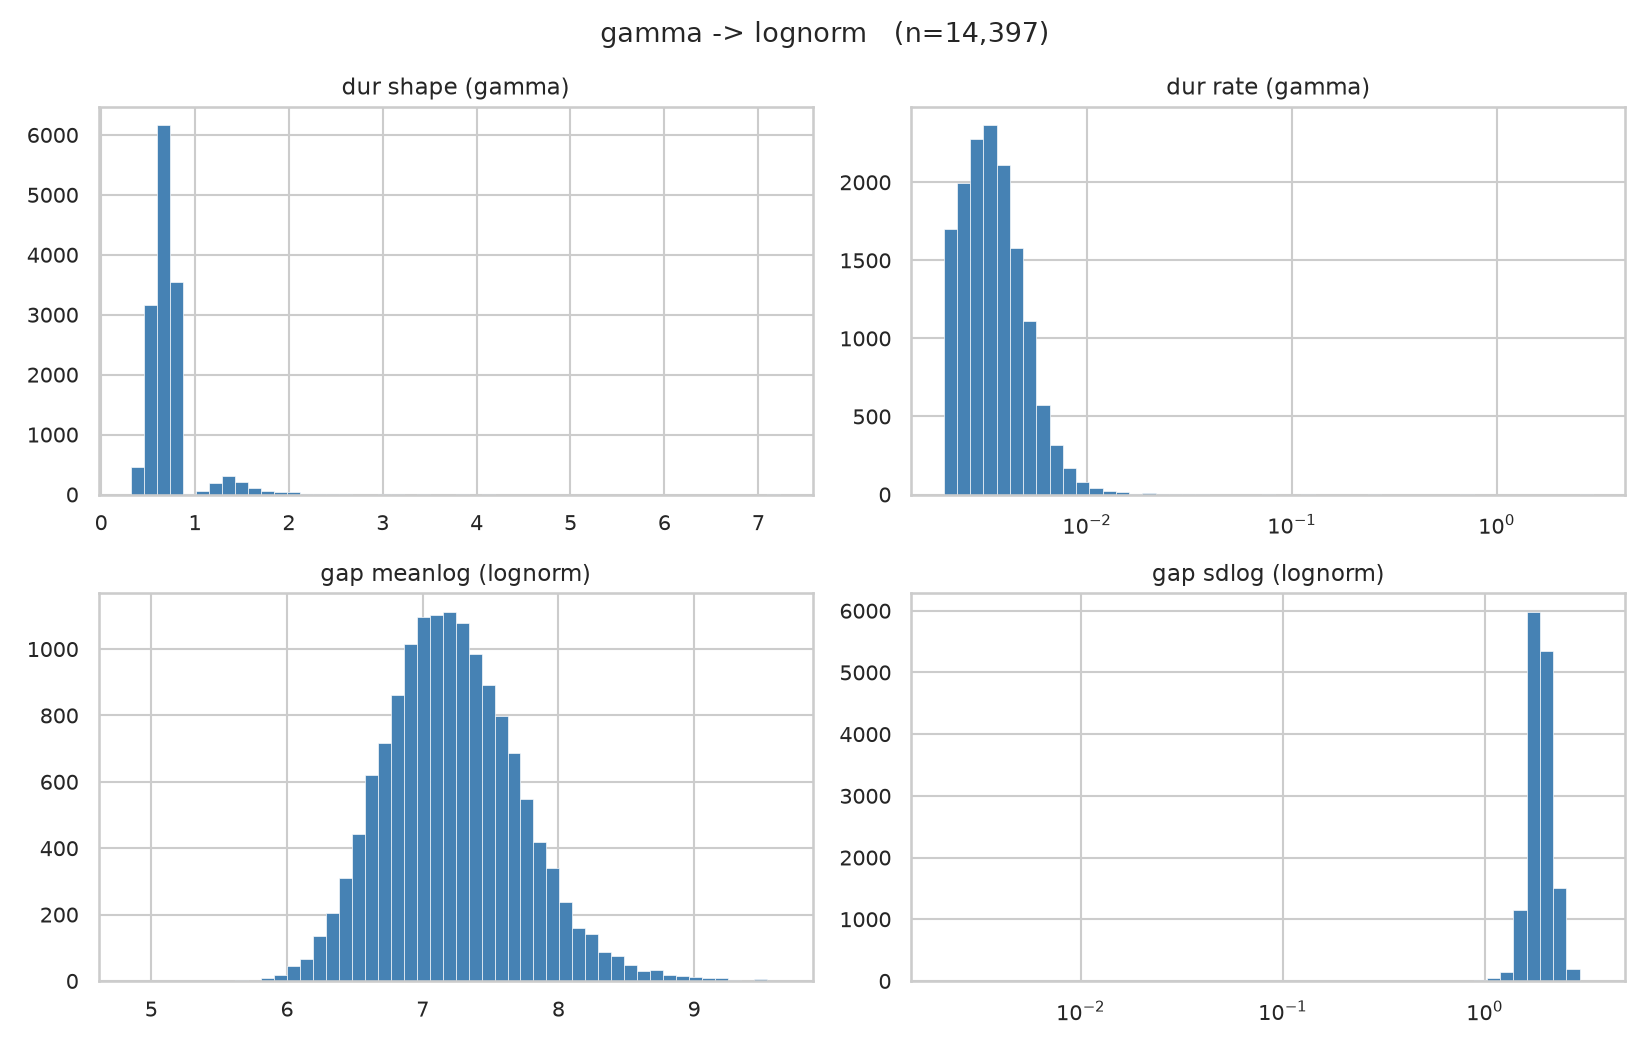
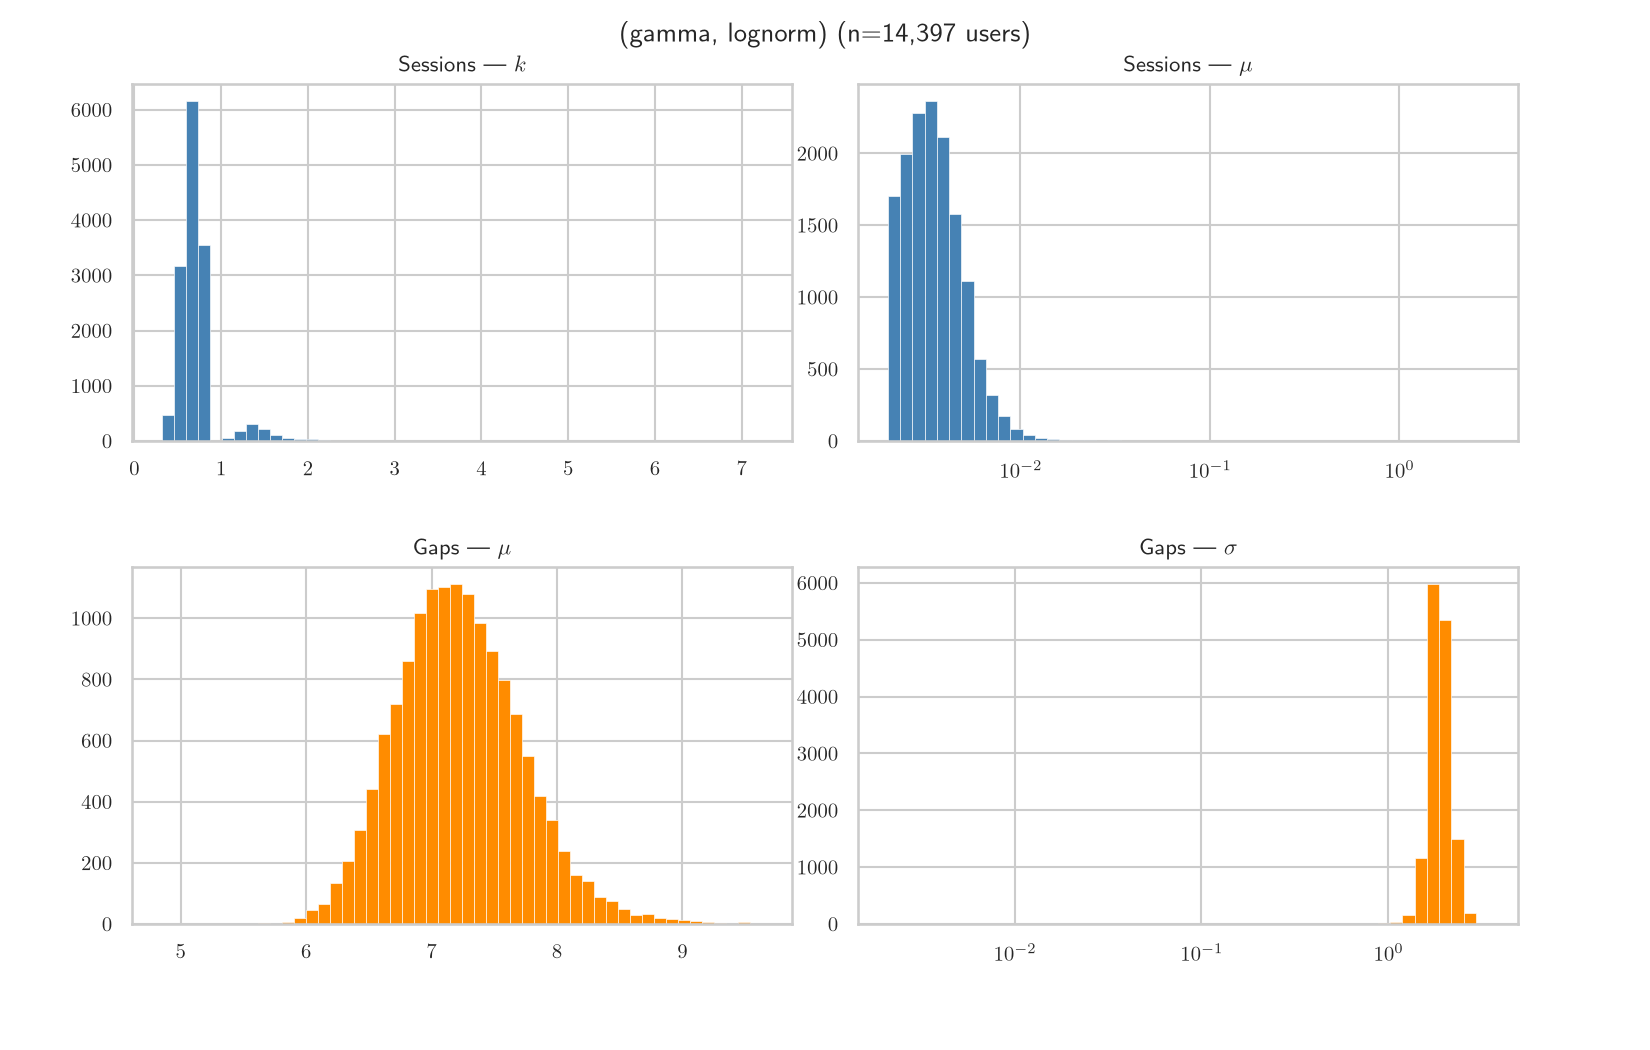
Redone some histograms of pairs

diff --git a/sessions/distribution-fit/pair_param_hists.py b/sessions/distribution-fit/pair_param_hists.py
@@ -1,9 +1,18 @@
-"""Per-pair histograms of fitted params: one PNG per (dur_dist, gap_dist) pair,
-up to 4 subplots (dur params + gap params). Top 15 pairs by user count.
+"""Per-pair histograms of fitted params: one 2-row PNG per (dur_family, gap_family) pair.
 
-Checks what the median [Q1-Q3] table can't: bimodality / degenerate spreads
-in the across-user distribution of fitted params. Log-x when values are
-all-positive and span > 50x.
+Level 1 (top) = sessions (blue, dur params), level 2 (bottom) = gaps (orange,
+gap params). Panels are placed at explicit figure-fraction coordinates so each
+row's params form a centred block: a 1-parameter distribution shows a single
+panel dead-centre of its row, a 2-parameter one shows two panels spread
+symmetrically about the centre. No 3-col gridspec, no empty middle slot.
+
+Power_tail sides (pareto/lomax/genpareto are reparametrizations of one another)
+are shown on a common canonical GPD axis (xi, sigma) from
+power_tail_canonical.tsv, so all power_tail users plot the same semantics.
+
+The 24 relevant family pairs = top 24 by user count, matching pair_family_bars.py
+(drops the bottom 8 pairs, 17 users, <0.01%). Titles state the pair explicitly;
+filenames are pair + side. Log-x when values are all-positive and span > 50x.
 
 Usage:
     uv run distribution-fit/pair_param_hists.py
@@ -19,7 +28,7 @@ import seaborn as sns
 
 sns.set_theme(style="whitegrid")
 plt.rcParams.update({
-    "text.usetex": False,
+    "text.usetex": True,
     "axes.labelsize": 11,
     "font.size": 11,
     "xtick.labelsize": 10,
@@ -28,41 +37,83 @@ plt.rcParams.update({
 
 HERE = Path(__file__).resolve().parent
 WIDE = HERE / "results/pair_params_wide.tsv"
+CANON = HERE / "results/power_tail_canonical.tsv"
 OUT = HERE / "plots/pair_params"
-TOP = 15
+TOP = 24  # drop the bottom 8 tail pairs, matching pair_family_bars.py
 
 PARAMS = ["shape", "scale", "rate", "meanlog", "sdlog"]
+# LaTeX symbol per fitted parameter (drawn as $…$ so usetex renders it)
+SYMBOLS = {"xi": "\\xi", "sigma": "\\sigma",
+           "shape": "k", "scale": "\\lambda", "rate": "\\mu",
+           "meanlog": "\\mu", "sdlog": "\\sigma"}
+COLORS = {"dur": "steelblue", "gap": "darkorange"}
+LABELS = {"dur": "sessions", "gap": "gaps"}
+SIDE_COL = {"dur": "duration", "gap": "gap"}
+POWER_TAIL = "power_tail"
 
+# (did, col) -> (xi, sigma) canonical GPD, from step3
+canon = {}
+with open(CANON, newline="") as f:
+    for row in csv.DictReader(f, delimiter="\t"):
+        canon[(row["did"], row["col"])] = (float(row["xi"]), float(row["sigma"]))
+
+# (family_pair, side, param) -> values; param in {"xi","sigma"} for power_tail
 vals = defaultdict(list)
 n_users = defaultdict(int)
 with open(WIDE, newline="") as f:
     for row in csv.DictReader(f, delimiter="\t"):
-        pair = (row["dur_dist"], row["gap_dist"])
+        pair = (row["dur_family"], row["gap_family"])
         n_users[pair] += 1
         for side in ("dur", "gap"):
-            for p in PARAMS:
-                v = row.get(f"{side}_{p}")
-                if v:
-                    vals[(pair, side, p)].append(float(v))
+            family = pair[0] if side == "dur" else pair[1]
+            if family == POWER_TAIL:
+                xi, sig = canon.get((row["did"], SIDE_COL[side]), (None, None))
+                if xi is not None:
+                    vals[(pair, side, "xi")].append(xi)
+                    vals[(pair, side, "sigma")].append(sig)
+            else:
+                for p in PARAMS:
+                    v = row.get(f"{side}_{p}")
+                    if v:
+                        vals[(pair, side, p)].append(float(v))
+
+
+def hist_bins(v):
+    if v.min() > 0 and v.max() / v.min() > 50:
+        return "log", np.logspace(np.log10(v.min()), np.log10(v.max()), 50)
+    return None, 50
+
+
+# Explicit axes placement (figure fractions). Each row's panels form a block
+# centred on the row: 1 chip at x=0.5, or 2 chips symmetric about 0.5.
+FIG_W, FIG_H = 11, 7
+CHIP_W, CHIP_H = 0.40, 0.34
+MGAP = 0.04
+ROW_Y = {"dur": 0.58, "gap": 0.12}   # bottom edge of each row's chips
+
+
+def chip_xs(n):
+    total = n * CHIP_W + (n - 1) * MGAP   # block width, centred at 0.5
+    start = 0.5 - total / 2
+    return [start + i * (CHIP_W + MGAP) for i in range(n)]
+
 
 OUT.mkdir(parents=True, exist_ok=True)
 for pair in sorted(n_users, key=n_users.get, reverse=True)[:TOP]:
-    panels = [(side, p, np.array(vals[(pair, side, p)]))
-              for side in ("dur", "gap") for p in PARAMS
-              if vals[(pair, side, p)]]
-    fig, axes = plt.subplots(2, 2, figsize=(11, 7))
-    for ax, (side, p, v) in zip(axes.flat, panels):
-        bins = 50
-        if v.min() > 0 and v.max() / v.min() > 50:
-            ax.set_xscale("log")
-            bins = np.logspace(np.log10(v.min()), np.log10(v.max()), 50)
-        ax.hist(v, bins=bins, color="steelblue", edgecolor="white", linewidth=0.3)
-        ax.set_title(f"{side} {p} ({pair[0] if side == 'dur' else pair[1]})",
-                     fontsize=11)
-    for ax in list(axes.flat)[len(panels):]:
-        ax.axis("off")
-    fig.suptitle(f"{pair[0]} -> {pair[1]}   (n={n_users[pair]:,})")
-    fig.tight_layout()
-    fig.savefig(OUT / f"{pair[0]}__{pair[1]}.png", dpi=150)
+    fig = plt.figure(figsize=(FIG_W, FIG_H))
+    for side in ("dur", "gap"):
+        panels = [(p, np.array(vals[(pair, side, p)]))
+                  for p in ("xi", "sigma", *PARAMS) if vals[(pair, side, p)]]
+        for x, (p, v) in zip(chip_xs(len(panels)), panels):
+            ax = fig.add_axes([x, ROW_Y[side], CHIP_W, CHIP_H])
+            xscale, bins = hist_bins(v)
+            if xscale:
+                ax.set_xscale(xscale)
+            ax.hist(v, bins=bins, color=COLORS[side], edgecolor="white",
+                    linewidth=0.3, label=LABELS[side])
+            ax.set_title(f"{LABELS[side].capitalize()} — ${SYMBOLS[p]}$", fontsize=11)
+    fig.suptitle(f"({pair[0]}, {pair[1]})   (n={n_users[pair]:,} users)")
+    fname = OUT / f"{pair[0]}__{pair[1]}.png"
+    fig.savefig(fname, dpi=150)
     plt.close(fig)
-    print(f"→ {OUT / f'{pair[0]}__{pair[1]}.png'}")
+    print(f"→ {fname}")

diff --git a/sessions/distribution-fit/pair_family_bars.py b/sessions/distribution-fit/pair_family_bars.py
@@ -1,0 +1,72 @@
+"""Barplot of the most common (duration, gap) family pairs.
+
+Reads distribution-fit/results/pair_params_wide.tsv and plots the top
+pairs by share of users, complementing the pairwise contingency table
+in the thesis (@tbl-cal-pair-dist).
+
+Usage:
+    uv run distribution-fit/pair_family_bars.py
+"""
+
+import csv
+from collections import Counter
+from pathlib import Path
+
+import matplotlib.pyplot as plt
+import seaborn as sns
+
+# ── Thesis styling (AGENTS.md) ────────────────────────────────────────────
+sns.set_theme(style="whitegrid")
+plt.rcParams.update({
+    "text.usetex": False,
+    "axes.labelsize": 11,
+    "font.size": 11,
+    "legend.fontsize": 11,
+    "xtick.labelsize": 10,
+    "ytick.labelsize": 10,
+})
+
+HERE = Path(__file__).resolve().parent
+TSV = HERE / "results" / "pair_params_wide.tsv"
+OUT = HERE / "results" / "pair_family_bars.png"
+
+FAMILIES = {
+    "power_tail": "Power-law",
+    "weibull_min": "Weibull",
+    "lognorm": "Lognorm",
+    "gamma": "Gamma",
+    "expon": "Exp",
+    "fisk": "Fisk",
+}
+
+
+def main():
+    pairs = Counter()
+    with open(TSV, newline="") as f:
+        for row in csv.DictReader(f, delimiter="\t"):
+            pairs[(row["dur_family"], row["gap_family"])] += 1
+
+    total = sum(pairs.values())
+    # top 24; the remaining 8 pairs (17 users, <0.01%) are not plotted
+    top = pairs.most_common(len(pairs) - 8)
+    names = [f"{FAMILIES[d]} \u2192 {FAMILIES[g]}" for (d, g), _ in top]
+    pcts = [100 * c / total for (_, _), c in top]
+
+    fig, ax = plt.subplots(figsize=(11, 3.8))
+    palette = sns.color_palette("colorblind", n_colors=len(top))
+    bars = ax.bar(range(len(names)), pcts, color=palette, width=0.95)
+    ax.set_xticks(range(len(names)))
+    ax.set_xticklabels(names, rotation=60, ha="right", fontsize=11)
+    ax.set_ylabel("share of users (%)")
+    for i, p in enumerate(pcts):
+        ax.text(i, p + 0.1, f"{p:.1f}", ha="center", va="bottom", fontsize=11)
+    ax.set_ylim(0, max(pcts) * 1.10)
+
+    fig.tight_layout(pad=0.4)
+    fig.savefig(OUT, dpi=150, bbox_inches="tight")
+    plt.close(fig)
+    print(f"→ {OUT}")
+
+
+if __name__ == "__main__":
+    main()

diff --git a/sessions/distribution-fit/composition_by_cutoff.py b/sessions/distribution-fit/composition_by_cutoff.py
@@ -6,7 +6,15 @@ enough user" criterion: the duration composition collapses from ~45% to
 ~11% power-law between cutoff 0 and 20-30 and stabilises there, while the
 gap side keeps drifting (power-law returns for very active users).
 
-Usage:
+!!! DO NOT RE-RUN !!!
+This sweep requires the PRE-FILTER best_per_user.tsv (all fitted users).
+step2_build_best.py now enforces n_obs >= 30 on both columns, so any
+newly-generated best_per_user.tsv contains only active users and this
+cutoff sweep would come out degenerate (every row identical to the
+>=30 row). Kept in the repo only as documentation of why the >=30
+threshold was chosen; the thesis table was frozen from the old dump.
+
+Usage (historical only):
     uv run distribution-fit/composition_by_cutoff.py
     uv run distribution-fit/composition_by_cutoff.py --out results/composition_by_cutoff.tsv
 """
